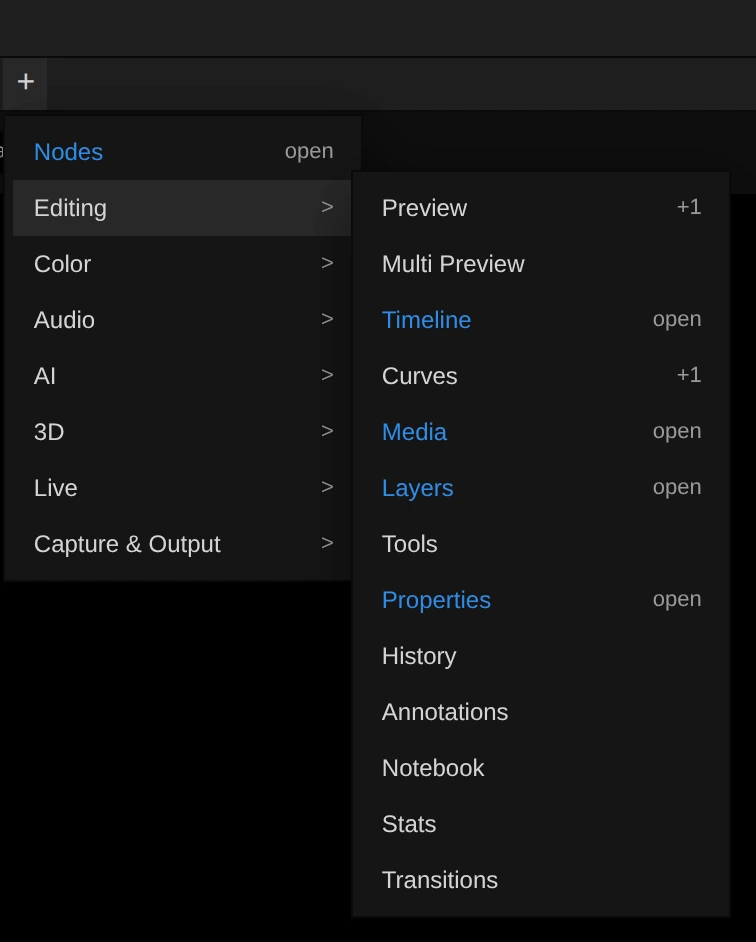
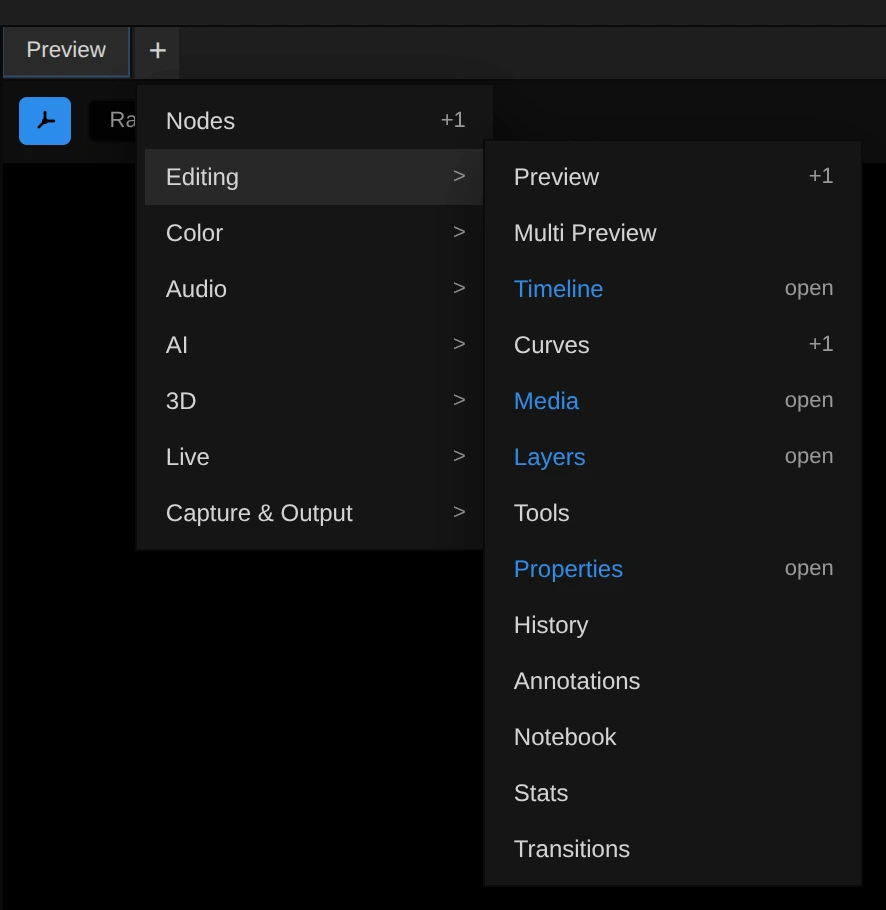
fix(dock): the + menu's Nodes entry shows +1 and Add another like other multi-instance panels; UI-Panels + menu picture with its Preview tab, + Add vs Import, Settings names (tests: DockTabMenus.test.tsx, docsMediaRecipes.test.ts)
Claude-Session: https://claude.ai/code/session_01SPCZUmow7FhgFsrvju87Zb

diff --git a/src/components/dock/tabPane/DockTabMenus.tsx b/src/components/dock/tabPane/DockTabMenus.tsx
@@ -70,13 +70,20 @@ export function DockTabMenus({
             return ADD_PANEL_GROUPS.map((group) => {
               if (group.direct) {
                 const type = group.types[0];
-                const isVisible = visibleTypes.has(type);
+                // A multi-instance panel (Nodes) always adds another copy, so it
+                // carries the same +1 hint and title as the submenu entries.
+                const isMulti = MULTI_INSTANCE_PANEL_TYPES.includes(type);
+                const isCurrent = !isMulti && visibleTypes.has(type);
+                const title = isMulti
+                  ? `Add another ${group.label}`
+                  : (isCurrent ? `${group.label} (focus existing)` : `Add ${group.label}`);
                 return <button key={type} type="button" role="menuitem"
-                  className={`dock-tab-add-menu-item ${isVisible ? 'is-current' : ''}`}
-                  title={isVisible ? `${group.label} (focus existing)` : `Add ${group.label}`}
+                  className={`dock-tab-add-menu-item ${isCurrent ? 'is-current' : ''}`}
+                  title={title}
                   onClick={event => { if (event.detail > 0) event.currentTarget.blur(); onAddPanelType(type); }}>
                   <span>{group.label}</span>
-                  {isVisible && <span className="dock-tab-context-menu-hint">open</span>}
+                  {isMulti && <span className="dock-tab-context-menu-hint">+1</span>}
+                  {isCurrent && <span className="dock-tab-context-menu-hint">open</span>}
                 </button>;
               }
               return (

diff --git a/tests/unit/DockTabMenus.test.tsx b/tests/unit/DockTabMenus.test.tsx
@@ -98,7 +98,12 @@ describe('DockTabMenus', () => {
     const categoryMenu = screen.getByRole('menu', { name: 'Add panel category' });
     const nodesItem = within(categoryMenu).getAllByRole('menuitem')[0];
     expect(nodesItem).toHaveTextContent('Nodes');
-    expect(nodesItem).toHaveAttribute('title', 'Nodes (focus existing)');
+    // Nodes is multi-instance: an open Nodes panel does not make the entry "open",
+    // because clicking it adds another Nodes panel instead of focusing the first.
+    expect(nodesItem).toHaveAttribute('title', 'Add another Nodes');
+    expect(nodesItem).not.toHaveClass('is-current');
+    expect(nodesItem).toHaveTextContent('+1');
+    expect(nodesItem).not.toHaveTextContent('open');
     expect(nodesItem).not.toHaveAttribute('aria-haspopup');
     fireEvent.click(nodesItem);
     expect(onAddPanelType).toHaveBeenCalledWith('node-workspace');

diff --git a/docs/Features/UI-Panels.md b/docs/Features/UI-Panels.md
@@ -108,9 +108,9 @@ Every panel can be added from the **+** at the end of a tab bar, or swapped in w
 
 <figure class="docs-shot docs-shot--float-right">
 
-![The + menu of the Preview tab bar: Nodes (open) and the groups Editing, Color, Audio, AI, 3D, Live and Capture & Output; Editing is open and lists Preview (+1), Multi Preview, Timeline (open), Curves (+1), Media (open), Layers (open), Tools, Properties (open), History, Annotations, Notebook, Stats and Transitions](./assets/ui-panels/add-panel-menu.webp)
+![The + menu of the Preview tab bar: Nodes (+1) and the groups Editing, Color, Audio, AI, 3D, Live and Capture & Output; Editing is open and lists Preview (+1), Multi Preview, Timeline (open), Curves (+1), Media (open), Layers (open), Tools, Properties (open), History, Annotations, Notebook, Stats and Transitions](./assets/ui-panels/add-panel-menu.webp)
 
-<figcaption>The <strong>+</strong> menu with Editing open. Blue entries marked <strong>open</strong> are already in the layout and come to the front; <strong>+1</strong> adds another copy of a panel that can be open more than once.</figcaption>
+<figcaption>The <strong>+</strong> menu with Editing open. Blue entries marked <strong>open</strong> are already in the layout and come to the front; <strong>+1</strong> marks panels that can be open more than once, and each click adds one.</figcaption>
 </figure>
 
 Preview, Nodes, Color Controls, Curves and Slot Grid can be open more than once; every other panel exists once: **+** brings the open one to the front, and **Change to** moves it into the clicked slot. A few more panel types (AI Scene Description and the separate Waveform, Histogram and Vectorscope panels) load only from older saved layouts. Feature pages: [Preview](./Preview.md), [Timeline](./Timeline.md), [Media Panel](./Media-Panel.md), [Keyframes](./Keyframes.md), [Notebook](./Documents.md), [Annotations](./Annotations.md), [Image Mode](./Image-Mode.md) (Layers, Tools), [Slot Grid](./Slot-Grid.md), [Export](./Export.md), [Screen Capture](./Screen-Capture.md), [Media Discovery](./Media-Discovery.md) (Discover), [AI Studio](./AI-Studio.md), [Story Workflow](./Seedance-Preproduction.md), [Color Correction](./Color-Correction.md).
@@ -149,7 +149,7 @@ Preview, Nodes, Color Controls, Curves and Slot Grid can be open more than once;
 - Three views: Classic list, Large icons and Board, switched with the segmented control in the header
 - Reorderable column headers in the Classic list
 - Folder breadcrumb in the Icons view
-- The header **Import** button and the right-click **Add** submenu offer Composition, Folder, Import files..., Live Input... and Import Gaussian Splat...; text, solids, blank clips, 3D and motion layers are created from the timeline's right-click menu
+- The **+ Add** button in the header and the right-click **Add** submenu offer Composition, Folder, Import files..., Live Input... and Import Gaussian Splat...; **Import** opens the file picker directly; text, solids, blank clips, 3D and motion layers are created from the timeline's right-click menu
 - Dragging files or folders from the OS recreates the folder structure inside the project
 - Dropping multiple OS files directly on the timeline asks whether to place them side by side or stacked on new layers, while still importing through the Media Panel file path first
 - Drag-to-timeline support
@@ -161,7 +161,7 @@ Preview, Nodes, Color Controls, Curves and Slot Grid can be open more than once;
 
 - Presets, Output (name, container, method), Video or Image, Audio, Range & Summary and Render Quality, top to bottom, with the green **Export** button at the bottom
 - Methods: WebCodecs Fast, HTMLVideo Precise, FFmpeg CPU and HAP GPU; FCPXML is a container choice
-- Files dropped onto the panel form a batch queue
+- Video, audio or image items dragged from the Media panel onto it form a batch queue
 - Details: [Export](./Export.md)
 
 ### MIDI Mapping Panel
@@ -661,7 +661,7 @@ Lower preview quality reduces GPU workload and memory use on engine-backed previ
 
 ### Integrations
 
-The only key you can enter is the optional YouTube Data API v3 key. AI features use authenticated hosted services rather than user-entered provider keys in Preferences.
+The only key you can enter is the optional YouTube Data API v3 key. AI features use authenticated hosted services rather than user-entered provider keys in Settings.
 
 ---
 

diff --git a/docs/Features/Timeline.md b/docs/Features/Timeline.md
@@ -416,7 +416,7 @@ The toolbar and wheel gestures drive playback and navigation:
 - The ruler is a stack of independent **ruler lanes** (Time / Timecode / Frames / Bars+Beats) toggled from the **Rulers** checklist next to the View dropdown; each lane keeps a fixed format and only its tick density adapts to zoom (no frame↔time crossfade). Bars+Beats is projected through a per-composition TempoMap. Clicking a lane marks it active (highlighted). See [Timeline Rulers](./Timeline-Rulers.md).
 - The timeline **body** lane grid (behind clips, distinct from the ruler) still uses the active composition frame rate at deep zoom: the base time grid crossfades out while frame-accurate grid lines fade in with zoom.
 - Unselected clips keep persistent white edge brackets: each vertical edge has short top and bottom caps that fade inward, so adjacent clips form a visible `][` cut marker without obscuring thumbnails or waveforms. Selected clips retain the complete white outline.
-- `Alt+Scroll` or `Ctrl+Scroll` zooms the timeline around the mouse pointer by default; Preferences -> General -> Timeline can switch the zoom anchor to the playhead. While zooming in near either lane edge, a magnetic 48 px edge zone preserves the corresponding visible time boundary so the nearby beginning or end is not pushed offscreen. Timeline zoom remains contained behind the dedicated navigator instead of exposing a second native panel scrollbar. Faster wheel gestures use larger zoom steps.
+- `Alt+Scroll` or `Ctrl+Scroll` zooms the timeline around the mouse pointer by default; **Settings → General → Timeline → Zoom Anchor** can switch the anchor to the playhead. While zooming in near either lane edge, a magnetic 48 px edge zone preserves the corresponding visible time boundary so the nearby beginning or end is not pushed offscreen. Timeline zoom remains contained behind the dedicated navigator instead of exposing a second native panel scrollbar. Faster wheel gestures use larger zoom steps.
 - `Shift+Scroll` pans horizontally.
 - Vertical scroll snaps to track boundaries. The timeline frame and section viewports cannot acquire a second native browser scroll offset through focus or `scrollIntoView`; only the editor’s section scrolling and navigator move the tracks. This keeps track headers, clip hit testing and the ruler aligned after panel/layout changes.
 - `Ctrl+Shift+Scroll` or `Cmd+Shift+Scroll` toggles slot-grid view.
